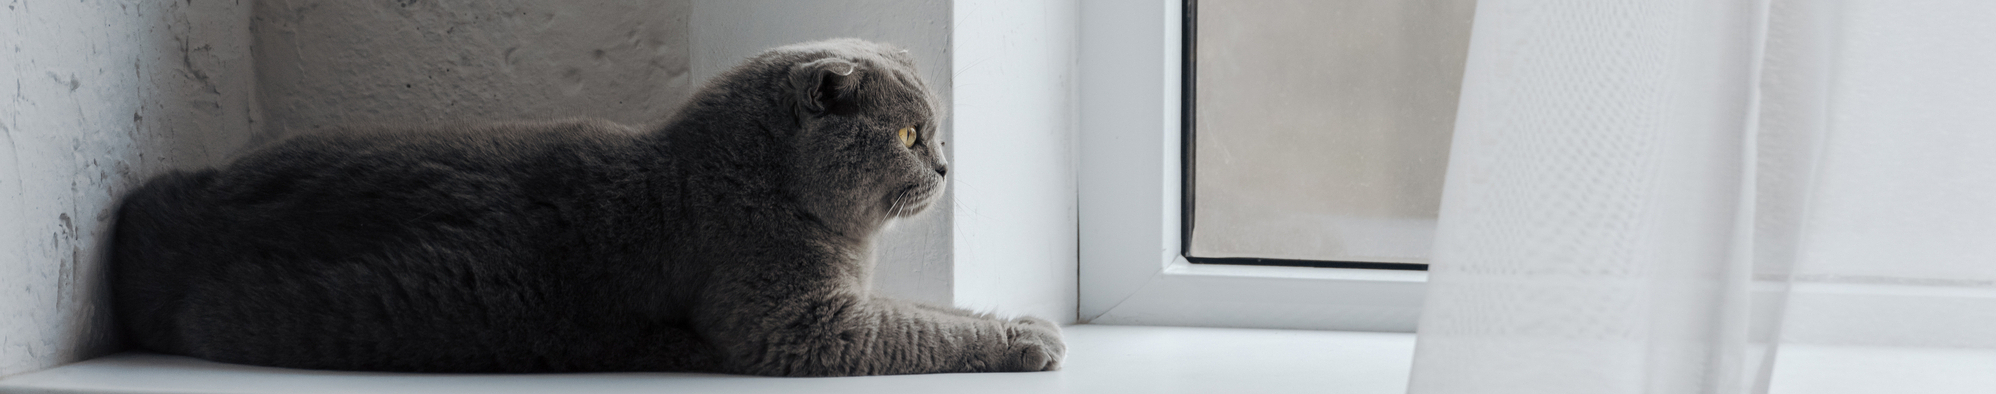
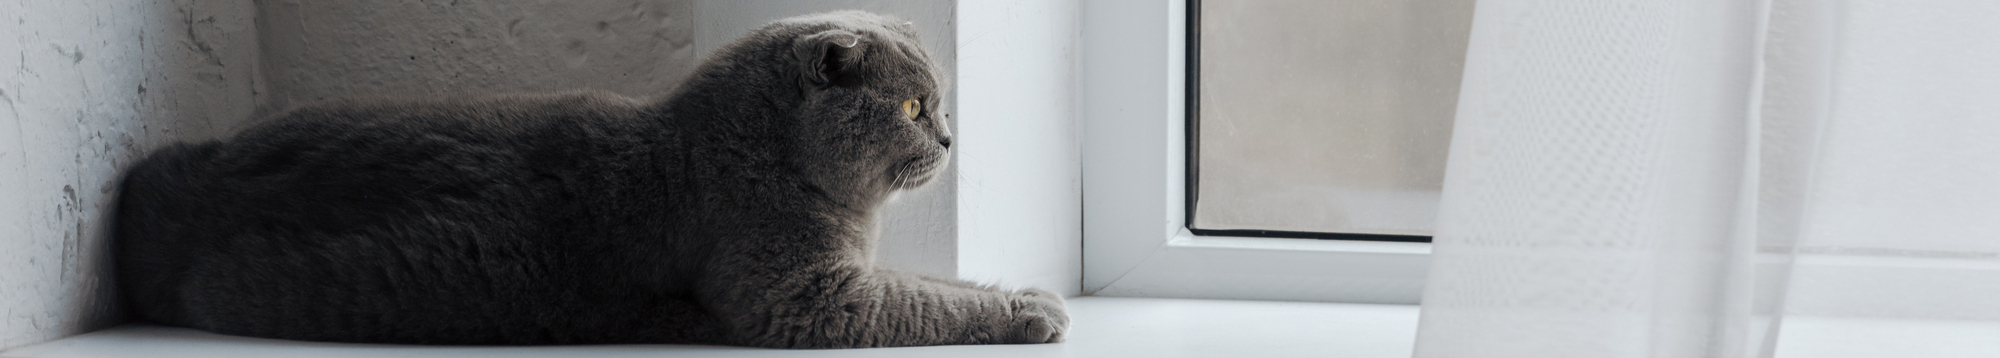
ADD: ナビゲーションバーの追加 ADD: 掲示板詳細画面の追加 FIX: CSSの修正 FIX: フッターの修正 FIX: ヘッダーの修正 FIX: _boardの修正

diff --git a/app/assets/stylesheets/boards.scss b/app/assets/stylesheets/boards.scss
@@ -3,10 +3,35 @@
 // You can use Sass (SCSS) here: http://sass-lang.com/
 
 .title{
-  color: #6b6d6e;
+  color: #4d4e4f;
   text-align: center;
   padding: 0.25em;
   border-top: solid 2px #000000;
   border-bottom: solid 2px #000000;
-  background: repeating-linear-gradient(-45deg, #ffffff, #ffffff 3px,#ced2d6 3px, #ced2d6 7px);
+  background: repeating-linear-gradient(-45deg, #ffffff, #ffffff 3px,#e1e5e9 3px, #e1e5e9 7px);
+}
+
+.content-text{
+  padding: 0.5em 1em;
+  margin: 2em 0;
+  background: repeating-linear-gradient(-45deg, #ffffff, #ffffff 3px,#e9ecf0 3px, #e9ecf0 7px);
+}
+.content-text p {
+  margin: 0;
+  padding: 0;
+}
+
+.btn-flat-border {
+  display: inline-block;
+  padding: 0.3em 1em;
+  text-decoration: none;
+  color: #5c5e60;
+  border: solid 2px #5c5e60;
+  border-radius: 3px;
+  transition: .4s;
+}
+
+.btn-flat-border:hover {
+  background: #5c5e60;
+  color: white;
 }

diff --git a/app/assets/stylesheets/header.scss b/app/assets/stylesheets/header.scss
@@ -1,9 +1,10 @@
 .header-background{
   background-image: image-url("header.jpg");
   background-size: contain;
+  background-size: cover;
   background-position: center;
   background-repeat: no-repeat;
-  height: 300px;
+  height: 370px;
 }
 
 .title-text{

diff --git a/app/assets/stylesheets/nav.scss b/app/assets/stylesheets/nav.scss
@@ -1,0 +1,13 @@
+.navbar{
+  width: 100%;
+  height: 61px;
+
+  a, a:hover{
+    text-decoration: none;
+    color: white;
+  }
+
+  .active{
+    border-bottom: 5px solid #ffffff;
+  }
+}

diff --git a/app/assets/stylesheets/footer.scss b/app/assets/stylesheets/footer.scss
@@ -1,11 +1,4 @@
-footer{
-  /*
-  position: absolute;
-  bottom: 0;
-  */
-}
-
-.row{
+footer .row{
   height: 100px;
   p{
     width: 100%;

diff --git a/app/assets/stylesheets/application.scss b/app/assets/stylesheets/application.scss
@@ -15,4 +15,5 @@
  @import "bootstrap";
  @import "header";
  @import "footer";
- @import "boards"
+ @import "boards";
+ @import "nav";
